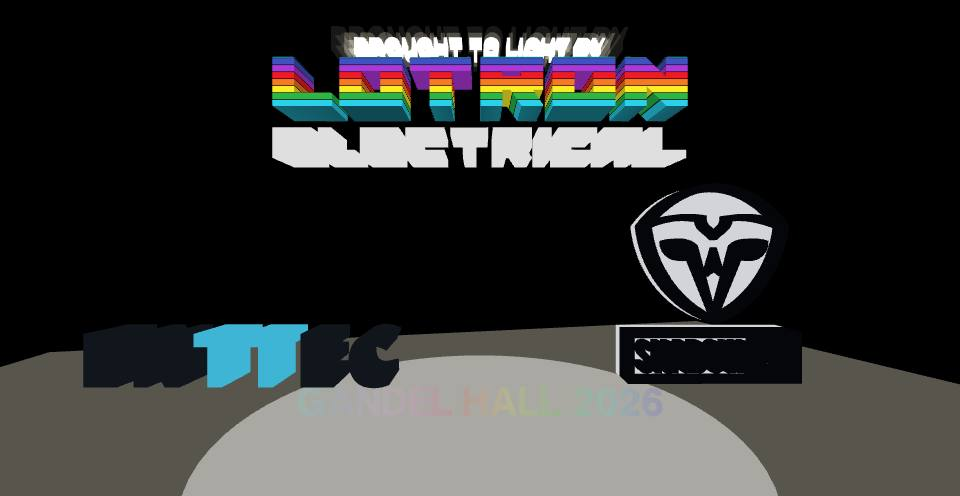
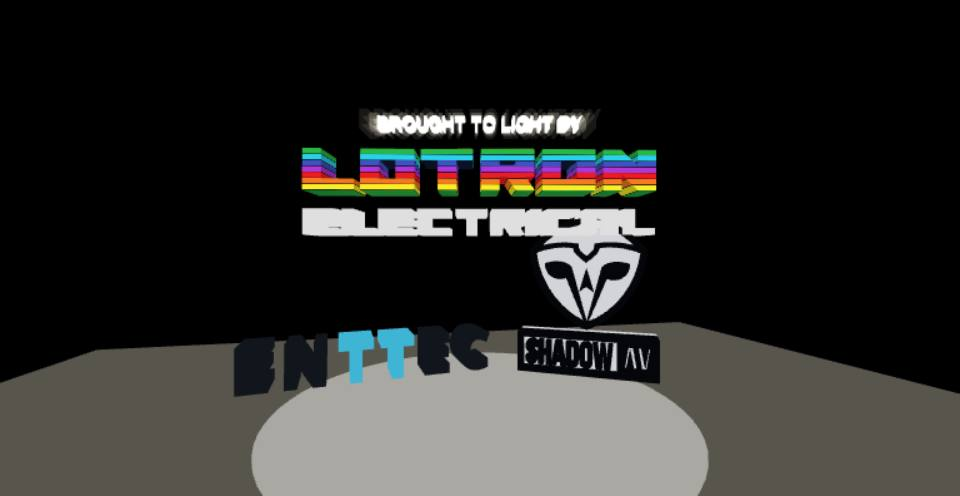
The finale (Lloyd's note, V2): the last scene is the marks alone on black, the court, the hall and the sky gone through a short dip as the flattening begins; the partners closer together and Lotron closer above them; GANDEL HALL, large, in Voronoi stained glass above BROUGHT TO LIGHT BY (its text ed
Claude-Session: https://claude.ai/code/session_01JupC9g6UHnowKAwqZM7atT

Changed region(s): [[0.0, 0.0605, 0.875, 1.0], [0.875, 0.7258, 1.0, 0.7863]]

diff --git a/index.html b/index.html
@@ -272,6 +272,7 @@ hint.innerHTML = COARSE
  : 'FLY &middot; WASD move while you <b>hold the left mouse to look</b> &middot; Space/C up-down &middot; Shift fast &middot; Alt slow &middot; wheel = speed &middot; <a href="model.glb" download>Download the GLB</a>';
 const R=new THREE.WebGLRenderer({canvas:cv,antialias:true}); R.setPixelRatio(Math.min(devicePixelRatio,2)); R.outputColorSpace=THREE.SRGBColorSpace; R.toneMapping=THREE.ACESFilmicToneMapping; R.toneMappingExposure=1.0;
 const scene=new THREE.Scene(); scene.background=new THREE.Color(0x000000);
+let finaleDark=false; const SKY_BLACK=new THREE.Color(0x000000);   // the finale's last scene is on black (Lloyd)
 scene.environment=new THREE.PMREMGenerator(R).fromScene(new RoomEnvironment(),0.04).texture;
 const hemi=new THREE.HemisphereLight(0xfff4e6,0x40302a,0.9); scene.add(hemi);
 // ---- lighting model. The photographs are albedo x house light at the exposure they were shot
@@ -416,7 +417,7 @@ function applyDay(hour){
  const hh=Math.floor(hour)%24, mm=Math.round((hour%1)*60);
  document.getElementById('todval').textContent=`${String(hh).padStart(2,'0')}:${String(mm).padStart(2,'0')}`;
  for(const m of photoMats){m.uniforms.day.value=lit.day; m.uniformsNeedUpdate=true;}
- scene.background=SKY_NIGHT.clone().lerp(SKY_DAY,lit.day);
+ scene.background=finaleDark?SKY_BLACK:SKY_NIGHT.clone().lerp(SKY_DAY,lit.day);
  if(typeof updateBeams==='function')updateBeams(hour);
  for(const grp of [typeof court!=='undefined'?court:null, typeof eventGroup!=='undefined'?eventGroup:null]) if(grp)grp.traverse(o=>{ if(o.isMesh&&o.material.userData&&o.material.userData.night){o.material.color.copy(o.material.userData.night).lerp(o.material.userData.day,lit.day);} });
  sceneDirty=true;
@@ -1761,7 +1762,7 @@ function buildCourt(){
   const halo=new THREE.Mesh(tg,new THREE.MeshBasicMaterial({color:0xfff6dc,transparent:true,opacity:0.22,blending:THREE.AdditiveBlending,depthWrite:false,toneMapped:false}));
   halo.scale.set(1.06,1.18,1.6); const halo2=halo.clone(); halo2.scale.set(1.14,1.4,2.4); halo2.material=halo.material.clone(); halo2.material.opacity=0.1;
   // in the court group, not the logo group: it faces the glass and does not turn with the letters (Lloyd)
-  tag=new THREE.Group(); tag.add(core,halo,halo2); tag.position.copy(turntable.position).y+=tagY; tag.quaternion.copy(turntable.quaternion); tag.userData.baseY=tag.position.y; court.add(tag); };
+  tag=new THREE.Group(); tag.add(core,halo,halo2); tag.position.copy(turntable.position).y+=tagY; tag.quaternion.copy(turntable.quaternion); tag.userData.baseY=tag.position.y; tag.userData.size=tagSize; court.add(tag); };
  // Lotron at the front of the turntable, facing the hall at the start of every turn
  logo.position.set(0,0,ringR); turntable.add(logo);
  for(const m of logo.children)solids.push(m);
@@ -3220,6 +3221,24 @@ function setEvent(mode){ const ev=document.getElementById('event'), md=document.
 // in seconds, and each line's group is built once and kept by its text
 const TITLE_D=6;   // metres ahead of the eye
 let titles=null, titleGlint=null, titleShimmer=null, titleGlass=null; const titleGroups=new Map();
+// VORONOI STAINED GLASS for text (Lloyd): a mosaic of little coloured panes in dark lead over
+// the letters, lit from behind with a slow sweep; noDepth for the titles, which draw over
+// everything, depth-tested for the finale's line in the court
+function makeGlassMat(noDepth){ return new THREE.ShaderMaterial({uniforms:{t:{value:0},op:{value:1},cell:{value:0.11}},transparent:true,depthWrite:false,depthTest:!noDepth,
+   vertexShader:`varying vec3 vP; varying vec3 vN; void main(){ vP=position; vN=normal; gl_Position=projectionMatrix*modelViewMatrix*vec4(position,1.0); }`,
+   fragmentShader:`uniform float t; uniform float op; uniform float cell; varying vec3 vP; varying vec3 vN;
+    vec2 h2(vec2 q){ return fract(sin(vec2(dot(q,vec2(127.1,311.7)),dot(q,vec2(269.5,183.3))))*43758.5453); }
+    vec3 hsv(float h,float s,float v){ vec3 k=vec3(1.0,2.0/3.0,1.0/3.0); vec3 p=abs(fract(vec3(h)+k)*6.0-3.0); return v*mix(vec3(1.0),clamp(p-1.0,0.0,1.0),s); }
+    void main(){
+     vec2 q=vP.xy/cell; vec2 g=floor(q), f=fract(q); float d1=9.0, d2=9.0; vec2 id=vec2(0.0);
+     for(int y=-1;y<=1;y++)for(int x=-1;x<=1;x++){ vec2 o=vec2(float(x),float(y)); vec2 r=o+h2(g+o)-f; float d=dot(r,r); if(d<d1){ d2=d1; d1=d; id=g+o; } else if(d<d2){ d2=d; } }
+     float edge=sqrt(d2)-sqrt(d1);
+     float lead=smoothstep(0.07,0.2,edge);                       // 0 on the lead line, 1 in the pane
+     vec3 c=hsv(fract(h2(id).x+t*0.01),0.9,1.0);
+     float lit=0.55+0.45*sin(vP.x*1.4-t*0.9+h2(id).y*2.0);          // the light behind, sweeping along
+     float side=1.0-0.35*(1.0-abs(vN.z));                          // the bevel and sides a touch darker
+     vec3 col=mix(vec3(0.05,0.04,0.05),c*(0.55+0.45*lit),lead)*side;
+     gl_FragColor=vec4(col,op); }`});; }
 // a title: rows split on ' / ' (top row first); a row wrapped in *...* is set in stained glass,
 // a Voronoi of coloured panes in dark lead with the object's rainbow glint crossing it (Lloyd, shot 1: "Gandel Hall"
 // above "Is brought to light"); '|' in a row marks the word that carries the white glint
@@ -3238,23 +3257,7 @@ function titleGroup(item){ const key=[].concat(item).join('|'); if(titleGroups.h
     void main(){ float x=vP.x-mod(t*0.9,7.0)+3.5; float g=exp(-x*x*1.6);
     vec3 c=mix(vec3(1.0,0.98,0.94),hsv(fract(vP.x*0.16+t*0.07)),0.4);
     gl_FragColor=vec4(c*g*0.4*op,1.0); }`});
-  // (Lloyd, V3) the stained-glass row IS stained glass: a Voronoi of little panes over the
-  // letters, each its own colour, dark lead between them, lit from behind with a slow sweep
-  titleGlass=new THREE.ShaderMaterial({uniforms:{t:{value:0},op:{value:1}},transparent:true,depthWrite:false,depthTest:false,
-   vertexShader:`varying vec3 vP; varying vec3 vN; void main(){ vP=position; vN=normal; gl_Position=projectionMatrix*modelViewMatrix*vec4(position,1.0); }`,
-   fragmentShader:`uniform float t; uniform float op; varying vec3 vP; varying vec3 vN;
-    vec2 h2(vec2 q){ return fract(sin(vec2(dot(q,vec2(127.1,311.7)),dot(q,vec2(269.5,183.3))))*43758.5453); }
-    vec3 hsv(float h,float s,float v){ vec3 k=vec3(1.0,2.0/3.0,1.0/3.0); vec3 p=abs(fract(vec3(h)+k)*6.0-3.0); return v*mix(vec3(1.0),clamp(p-1.0,0.0,1.0),s); }
-    void main(){
-     vec2 q=vP.xy/0.11; vec2 g=floor(q), f=fract(q); float d1=9.0, d2=9.0; vec2 id=vec2(0.0);
-     for(int y=-1;y<=1;y++)for(int x=-1;x<=1;x++){ vec2 o=vec2(float(x),float(y)); vec2 r=o+h2(g+o)-f; float d=dot(r,r); if(d<d1){ d2=d1; d1=d; id=g+o; } else if(d<d2){ d2=d; } }
-     float edge=sqrt(d2)-sqrt(d1);
-     float lead=smoothstep(0.07,0.2,edge);                       // 0 on the lead line, 1 in the pane
-     vec3 c=hsv(fract(h2(id).x+t*0.01),0.9,1.0);
-     float lit=0.55+0.45*sin(vP.x*1.4-t*0.9+h2(id).y*2.0);          // the light behind, sweeping along
-     float side=1.0-0.35*(1.0-abs(vN.z));                          // the bevel and sides a touch darker
-     vec3 col=mix(vec3(0.05,0.04,0.05),c*(0.55+0.45*lit),lead)*side;
-     gl_FragColor=vec4(col,op); }`}); }
+  titleGlass=makeGlassMat(true); }
  const geo=(text,st)=>{ const tg=new TextGeometry(text,{font:buildCourt.font,size:0.34,height:st?0.12:0.05,curveSegments:4,bevelEnabled:!!st,bevelThickness:0.02,bevelSize:0.015,bevelSegments:2}); tg.computeBoundingBox(); return tg; };
  // drawn last with no depth test, so a column between the eye and the line never hides it (Lloyd)
  const mesh=(tg,op,sc,mats)=>{ const m=new THREE.Mesh(tg,new THREE.MeshBasicMaterial({color:op<1?0xdfe8ff:0xffffff,transparent:true,opacity:op,blending:op<1?THREE.AdditiveBlending:THREE.NormalBlending,depthWrite:false,depthTest:false,toneMapped:false})); m.material.userData.base=op; m.renderOrder=990; if(sc)m.scale.set(...sc); mats.push(m.material); return m; };
@@ -3289,12 +3292,18 @@ function titlesOff(){ if(titles)for(const g of titles.children)g.visible=false; 
 // triangle flattens from 3D to 2D, GANDEL HALL 2026 comes up beneath it in shimmering rainbow,
 // holds, and the picture fades to black. The tour ends there.
 const FIN={walk:8, rise:8, flat:5, hold:4, fade:2};   // seconds per phase
+// (Lloyd, V2) the last scene is the marks alone on black: as the flattening begins the court,
+// the hall and the sky go, through a short dip to black
+let gandelTop=null, gandelTopMat=null;
 let finale=null, gandelText=null, gandelMat=null;
 const finaleTotal=()=>FIN.walk+FIN.rise+FIN.flat+FIN.hold+FIN.fade;
 // the triangle in the turntable's own frame (+z faces the hall; seen from the hall, +x is left)
 function finaleLayout(){ const {H,W,T}=logo.userData; const pt=Math.max(...partners.map(p=>p.userData.top));
  // the year sits at the foot (0.3 up, 0.6 H tall), the partners clear of it, Lotron clear of them
- const yBot=0.3+0.45*H+1.0, yTop=yBot+pt+1.2, dx=W*0.55; return {H,W,T,yTop,yBot,dx,top:yTop+T,tagY:yTop+T+H*0.5,wTot:1.8*W}; }
+ // (Lloyd, V2) closer together: the partners nearer the middle and Lotron nearer them; and the
+ // big GANDEL HALL above the tag, its height in the framing
+ const yBot=0.3+0.45*H+1.0, yTop=yBot+pt+0.5, dx=W*0.45, tagY=yTop+T+H*0.5, ts=tag&&tag.userData.size||H*0.34, gBot=tagY+ts*0.85+H*0.35, gH=H*0.95;
+ return {H,W,T,yTop,yBot,dx,top:gBot+gH+H*0.2,tagY,gBot,gH,wTot:1.8*W}; }
 function gandelBuild(L){ if(gandelText||!buildCourt.font)return;
  gandelMat=new THREE.ShaderMaterial({uniforms:{t:{value:0},op:{value:0},x0:{value:0},x1:{value:1}},transparent:true,depthWrite:false,toneMapped:false,
   vertexShader:`varying vec3 vP; void main(){ vP=position; gl_Position=projectionMatrix*modelViewMatrix*vec4(position,1.0); }`,
@@ -3305,7 +3314,13 @@ function gandelBuild(L){ if(gandelText||!buildCourt.font)return;
  const tg=new TextGeometry(TX1('finale','GANDEL HALL 2026'),{font:buildCourt.font,size:L.H*0.6,height:0.08,curveSegments:3,bevelEnabled:false});
  tg.computeBoundingBox(); const b=tg.boundingBox; tg.translate(-(b.min.x+b.max.x)/2,0,0); tg.computeBoundingBox();
  gandelMat.uniforms.x0.value=tg.boundingBox.min.x; gandelMat.uniforms.x1.value=tg.boundingBox.max.x;
- gandelText=new THREE.Mesh(tg,gandelMat); gandelText.position.set(0,0.3,0); gandelText.visible=false; turntable.add(gandelText); }
+ gandelText=new THREE.Mesh(tg,gandelMat); gandelText.position.set(0,0.3,0); gandelText.visible=false; turntable.add(gandelText);
+ // (Lloyd, V2) GANDEL HALL, large, in Voronoi stained glass, above BROUGHT TO LIGHT BY; in the
+ // court group like the tag, facing the hall, placed by finaleStep
+  // the panes a third of a letter tall, whatever the size
+ gandelTopMat=makeGlassMat(false); gandelTopMat.uniforms.cell.value=L.gH*0.3; const tg2=new TextGeometry(TX1('finale-top','GANDEL HALL'),{font:buildCourt.font,size:L.gH,height:0.12,curveSegments:3,bevelEnabled:true,bevelThickness:0.02,bevelSize:0.015,bevelSegments:2});
+ tg2.computeBoundingBox(); const b2=tg2.boundingBox; tg2.translate(-(b2.min.x+b2.max.x)/2,-b2.min.y,-0.06); tg2.computeVertexNormals();
+ gandelTop=new THREE.Mesh(tg2,gandelTopMat); gandelTop.visible=false; gandelTop.quaternion.copy(turntable.quaternion); court.add(gandelTop); }
 function finaleStart(){ if(finale)finaleEnd(); if(!logo||!turntable||partners.length<2)return; const L=finaleLayout(); gandelBuild(L);
  const home=o=>({p:o.position.clone(),r:o.rotation.y,s:o.scale.clone()});
  const f=document.getElementById('flash'); f.style.transition='none'; f.style.background='#000'; f.style.opacity=0;
@@ -3313,7 +3328,10 @@ function finaleStart(){ if(finale)finaleEnd(); if(!logo||!turntable||partners.le
  finale={L,homes:new Map([[logo,home(logo)],...partners.map(p=>[p,home(p)])]),yaw:turntable.rotation.y,scale:turntable.scale.x,tagY:tag?tag.userData.baseY:0,f}; }
 // everything back where the court had it (the tour's end, or the tool looping the shot)
 function finaleEnd(){ if(!finale)return; for(const [o,h] of finale.homes){ o.position.copy(h.p); o.rotation.y=h.r; o.scale.copy(h.s); }
- turntable.rotation.y=finale.yaw; turntable.scale.setScalar(finale.scale); if(tag)tag.userData.baseY=finale.tagY; for(const m of glazingMats)m.uniforms.door.value.x=0; if(gandelText)gandelText.visible=false; finale=null; }
+ turntable.rotation.y=finale.yaw; turntable.scale.setScalar(finale.scale); if(tag){ tag.userData.baseY=finale.tagY; tag.scale.setScalar(1); } for(const m of glazingMats)m.uniforms.door.value.x=0; if(gandelText)gandelText.visible=false; if(gandelTop)gandelTop.visible=false;
+ finaleLights(false); finale=null; }
+// the world off (the court's paving, the hall, the sky) and back on
+function finaleLights(dark){ if(finaleDark===dark)return; finaleDark=dark; if(court)for(const o of court.children){ if(o!==turntable&&o!==tag&&o!==gandelTop)o.visible=!dark; } if(hallGroup)hallGroup.visible=!dark; }
 // s: seconds into the shot
 function finaleStep(s){ if(!finale)finaleStart(); if(!finale)return; const F=finale, L=F.L, y0=COURT.origin.y;
  // seen from the hall, -x is the left: ENTTEC there, Shadow AV on the right
@@ -3328,14 +3346,22 @@ function finaleStep(s){ if(!finale)finaleStart(); if(!finale)return; const F=fin
  for(const [o,h] of F.homes){ const t=targets.get(o); if(!t)continue; o.position.set(h.p.x+(t[0]-h.p.x)*rk,h.p.y+(t[1]-h.p.y)*rk,h.p.z+(t[2]-h.p.z)*rk);
   let dr=-h.r; dr=Math.atan2(Math.sin(dr),Math.cos(dr)); o.rotation.y=h.r+dr*rk; }
  { let dy=turntable.userData.yaw0-F.yaw; dy=Math.atan2(Math.sin(dy),Math.cos(dy)); turntable.rotation.y=F.yaw+dy*rk; }
- if(tag)tag.userData.baseY=F.tagY+(turntable.position.y+L.tagY*sf-F.tagY)*rk;
+ // the tag shrinks with the turntable too (a phone), so the line above never sits on it
+ if(tag){ tag.userData.baseY=F.tagY+(turntable.position.y+L.tagY*sf-F.tagY)*rk; tag.scale.setScalar(1+(sf-1)*rk); }
  // the flattening: the depth of every mark goes to nothing, and the year comes up beneath
  const fk=smooth(Math.max(0,Math.min(1,(s-FIN.walk-FIN.rise)/FIN.flat)));
  for(const [o,h] of F.homes){ if(targets.has(o))o.scale.set(h.s.x,h.s.y,h.s.z*(1-0.99*fk)); }
  if(gandelText){ gandelText.visible=fk>0; gandelMat.uniforms.op.value=Math.min(1,fk*1.5); gandelMat.uniforms.t.value=s; }
+ if(gandelTop){ gandelTop.visible=fk>0; gandelTopMat.uniforms.op.value=Math.min(1,fk*1.5); gandelTopMat.uniforms.t.value=s;
+  // above the tag, whose letters do not shrink with the turntable on a phone: its height is
+  // taken as it is, the rest scaled
+  gandelTop.position.copy(turntable.position); gandelTop.position.y+=L.gBot*sf; gandelTop.scale.setScalar(sf); }
+ // the dip to black as the flattening begins, and the world gone when it comes back
+ const tB=FIN.walk+FIN.rise, dip=s<tB?Math.max(0,(s-(tB-0.6))/0.6):Math.max(0,1-(s-tB)/0.8);
+ finaleLights(s>=tB);
  // the fade to black at the end
  const fd=Math.max(0,Math.min(1,(s-FIN.walk-FIN.rise-FIN.flat-FIN.hold)/FIN.fade));
- if(fd>0)F.f.style.opacity=fd;
+ F.f.style.opacity=Math.max(fd,smooth(Math.min(1,dip)));
  // the camera: through the doorway at head height to a spot in the court, then back and up to
  // frame the whole triangle from D out, D from its height and the picture's width
  const wk=smooth(Math.min(1,s/FIN.walk)), bk=smooth(Math.max(0,Math.min(1,(s-FIN.walk)/FIN.rise)));
@@ -3349,7 +3375,7 @@ function finaleStep(s){ if(!finale)finaleStart(); if(!finale)return; const F=fin
 // line splits off the glint word, ' / ' stacks a second row under the first, and a row in *...*
 // is stained glass ('*Gandel Hall* / Is brought to |light'). finale is the year under the triangle,
 // sculpture the tag over the marks (both built once, so they take the file as it was at load).
-const TOUR_TEXT={"rainbow-columns":[["A unique space",0,4.4],["Carefully crafted over decades",4.4,8.8],["*Gandel Hall* / Is brought to |light",8.8,13.2]],"dinner":[["A space for community.",5.5,11.0]],"party":[["A place to have fun",2,8]],"party-celebrate":[["and celebrate amongst friends",1.5,7.5]],"standing":[["A space for people to share their stories",2,8]],"wedding-aisle":[["A place to celebrate love",2,8]],"finale":[["GANDEL HALL 2026",0,0]],"sculpture":[["BROUGHT TO LIGHT BY",0,0]]};
+const TOUR_TEXT={"rainbow-columns":[["A unique space",0,4.4],["Carefully crafted over decades",4.4,8.8],["*Gandel Hall* / Is brought to |light",8.8,13.2]],"dinner":[["A space for community.",5.5,11.0]],"party":[["A place to have fun",2,8]],"party-celebrate":[["and celebrate amongst friends",1.5,7.5]],"standing":[["A space for people to share their stories",2,8]],"wedding-aisle":[["A place to celebrate love",2,8]],"finale":[["GANDEL HALL 2026",0,0]],"finale-top":[["GANDEL HALL",0,0]],"sculpture":[["BROUGHT TO LIGHT BY",0,0]]};
 fetch('storyboard/titles.json?v='+Date.now()).then(r=>r.ok?r.json():null).then(j=>{ if(j)Object.assign(TOUR_TEXT,j); }).catch(()=>{});
 const TX=k=>(TOUR_TEXT[k]||[]).map(([t,a,b])=>[t,a,b]);
 const TX1=(k,d)=>((TOUR_TEXT[k]||[])[0]||[d])[0]||d;

diff --git a/tour-storyboard.md b/tour-storyboard.md
@@ -55,7 +55,10 @@ Is brought to light
 V3 (sent 01/09/2026 22:12:00):
 Gandel Hall text should be voronoi stained glass
 
-V4 (draft):
+V4 (sent 01/09/2026 22:17:42):
+The gandel hall text is too hard to read. Too detailed. Make it low poly stained glass
+
+V5 (draft):
 
 
 ---
@@ -95,7 +98,10 @@ Do not spin the camera here. Pan it back up smoothly, and then slowly lift the c
 [shot 2, 11.2 s] 
 After the text disappears, then fade out and end the shot
 
-V3 (draft):
+V3 (sent 01/09/2026 22:18:39):
+Make the scene more lively. People moving around, chatting, mingling and eating and drinking. Also have a string quartet playing in frame
+
+V4 (draft):
 
 
 ---
@@ -122,12 +128,17 @@ V2 (sent 01/09/2026 22:07:39):
 
 Have everyone wearing extravagant clothing. Like a modern royal banquet. Wait staff serving food and drinks. Everybody at the table eating or chatting to each other and having a good time
 
-V3 (draft):
+V3 (sent 01/09/2026 22:20:18):
 Text (all centre aligned)
 
-A place where (line break)
+Where
 Rich history and modern tradition (Each word fades in one after the other) (Line break)
 Come together
+
+More variety in clothes. Big hats, long flowing dresses. Not everyone with gold necklaces. Have everybody be unique. Also
+
+V4 (draft):
+
 
 ---
 
@@ -159,7 +170,10 @@ Fade in at the start of the shot.
 
 Text "A place to have fun"
 
-V2 (draft):
+V2 (sent 01/09/2026 22:21:10):
+A place to have fun!
+
+V3 (draft):
 
 
 ---
@@ -192,6 +206,12 @@ Also, the text was blocked by the columns
 V3.
 
 Start the camera high up and follow the confetti falling down, to finish at the end point of this current shot. Also, make the cold sparks go 1.5x higher
+
+V2 (sent 01/09/2026 22:22:14):
+the text gets washed out against the confetti. Maybe drop the camera lower, so the confetti is above the text at the start
+
+V3 (draft):
+
 
 ---
 
@@ -230,7 +250,10 @@ Glide from `(uM, 1.7, 14.2)` at the glass to `(uM, 1.6, 5.2)`: straight down the
 | ![](storyboard/seg07a.jpg) | ![](storyboard/seg07b.jpg) | ![](storyboard/seg07c.jpg) |
 
 **Notes:**
-V1 (draft):
+V1 (sent 01/09/2026 22:22:51):
+and to celebrate love
+
+V2 (draft):
 
 
 ---
@@ -250,6 +273,9 @@ The camera follows 3.6 m behind the couple at shoulder height (1.8), looking a l
 V1 (sent earlier):
 the rice should be landing on the floor and not disappearing right away.  Also, it seems that it's sticking to invisible boxes on top of people. It should fall realistically
 
+V2 (draft):
+the rice is phasing through the floor. It should land on the floor and stay during the scene
+
 ---
 
 ## 9. The finale: out to the courtyard
@@ -257,7 +283,7 @@ the rice should be landing on the floor and not disappearing right away.  Also, 
 
 Duration 27 s (walk 8, rise 8, flatten 5, hold 4, fade 2). The tour ends here; the picture fades back in on the free view.
 
-Walks at head height through a doorway cut in the glass on the court's axis, out to 6 m into the court, looking at the sculpture. Then the camera drifts back and up to frame the whole triangle while the three marks rise off the turntable and align facing the hall: Lotron on top, ENTTEC bottom left, Shadow AV bottom right, BROUGHT TO LIGHT BY above them. The triangle flattens from 3D to 2D and GANDEL HALL 2026 comes up beneath it in shimmering rainbow; holds 4 s; fades to black.
+Walks at head height through a doorway cut in the glass on the court's axis, out to 6 m into the court, looking at the sculpture. Then the camera drifts back and up to frame the whole triangle while the three marks rise off the turntable and align facing the hall: Lotron on top, ENTTEC bottom left, Shadow AV bottom right, BROUGHT TO LIGHT BY above them. The triangle flattens from 3D to 2D and GANDEL HALL 2026 comes up beneath it in shimmering rainbow; holds 4 s; fades to black. (Lloyd, V2) As the flattening begins the picture dips to black and comes back with the court, the hall and the sky gone: the marks alone on black. The partners sit closer together and Lotron closer above them. GANDEL HALL, large, in Voronoi stained glass, stands above BROUGHT TO LIGHT BY.
 
 | start | middle | end |
 |---|---|---|
@@ -268,6 +294,16 @@ V1 (sent earlier):
 This should walk through a doorway cut out in the glass.
 
 Then It should be the final shot where all three of the logos rise up from the platform and align themselves into a triangle shape. Lotron on top, enttec bottom left and shadow av bottom right. With the brought to light by text above them, and then slowly it flattens from 3d to 2d and has text "Gandel Hall 2026" at the bottom in shimmering rainbow and then it holds for a few seconds and fades out.
+
+V2 (sent 01/09/2026 22:16:12):
+[shot 9, 17.7 s] 
+
+The final scene should have a completely black background. Also, have the logos closer together.
+
+Gandel Hall in large Voronoi Stained glass text above the brought to light by
+
+V3 (draft):
+
 
 ---
 
